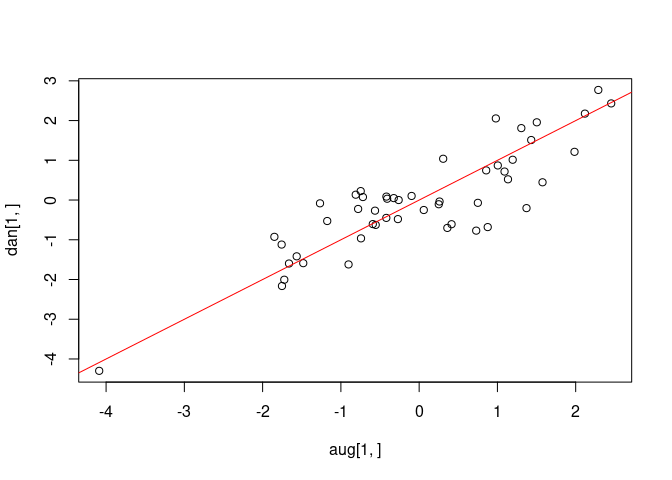
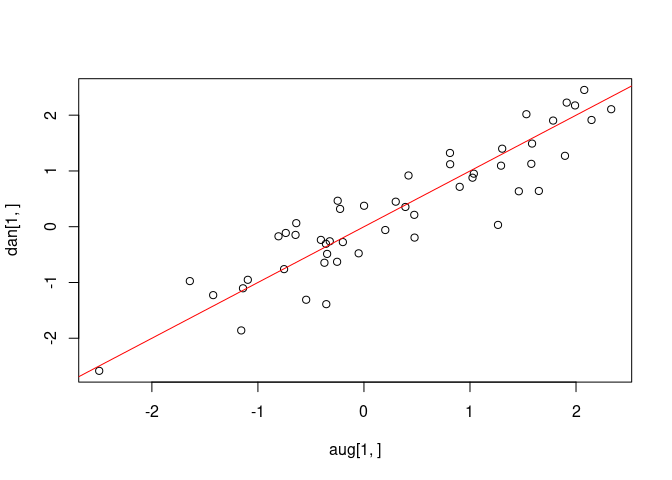
init Rproj

diff --git a/compare.md b/compare.md
@@ -51,11 +51,28 @@ system.time(plyr::r_ply(100,draw_conditional_posterior_R2_q(m,Y,U,X,sigma2,phi,b
 ```
 
     FALSE            Daniel Augustin
-    FALSE user.self   1.124   16.047
-    FALSE sys.self    0.024    0.012
-    FALSE elapsed     1.147   16.060
+    FALSE user.self   1.249   17.096
+    FALSE sys.self    0.024    0.000
+    FALSE elapsed     1.273   17.100
     FALSE user.child  0.000    0.000
     FALSE sys.child   0.000    0.000
+
+``` r
+#dist_conditional_posterior_R2_q(Y,U,X,sigma2,phi,beta,z,a,b,A,B)|>
+#  dplyr::rename(Augustin=prob)|>
+#  dplyr::full_join(dist_r2_q_cond_y_u_x_theta_z(sigma_epsilon,barvx,k,a,b,aa,bb,tbetabeta,s_z,r2_q_grid))|>
+#  dplyr::rename(Daniel=prob)|>ggplot(aes(x=Daniel,y=Augustin))+geom_points()
+
+q<-runif(m)
+R2<-r2<-runif(m)
+
+cbind(q=q,r2=r2,Daniel=loglikelihood_r2_q_cond_y_u_x_theta_z_a_b_aa_bb(r2,q,sigma_epsilon,barvx,k,a,b,aa,bb,tbetabeta,s_z),
+        Augustin=likelihood_conditional_posterior_R2_q(R2,q,Y,U,X,sigma2,phi,beta,z,a,b,A,B,correction=FALSE)|>log())|>as.data.frame()|>
+  dplyr::mutate()|>
+  ggplot(aes(x=Daniel,y=Augustin))+geom_point()
+```
+
+![](compare_files/figure-gfm/unnamed-chunk-3-3.png)<!-- -->
 
 ### II Test sampler z\_i
 
@@ -93,9 +110,9 @@ dan=sample_zi_cond_zj_y_u_x_phi_gamma(z,i=1,tilde_y,ttildeytildey,xx,q,tt,k,gamm
 mean(aug);mean(dan)
 ```
 
-    FALSE [1] 0.53
+    FALSE [1] 0.986
 
-    FALSE [1] 0.561
+    FALSE [1] 0.989
 
 ``` r
 cbind("Daniel"=
@@ -105,9 +122,9 @@ system.time(plyr::r_ply(100,sample_conditional_posterior_zi(Y,U,X,sigma2,phi,gam
 ```
 
     FALSE            Daniel Augustin
-    FALSE user.self   0.197    0.236
-    FALSE sys.self    0.016    0.011
-    FALSE elapsed     0.213    0.248
+    FALSE user.self   0.214    0.259
+    FALSE sys.self    0.004    0.012
+    FALSE elapsed     0.218    0.271
     FALSE user.child  0.000    0.000
     FALSE sys.child   0.000    0.000
 
@@ -163,9 +180,9 @@ system.time(plyr::r_ply(100,sample_conditional_posterior_z(Y,U,X,phi,R2,q,z))))
 ```
 
     FALSE            Daniel Augustin
-    FALSE user.self  12.403   16.816
-    FALSE sys.self    0.000    0.000
-    FALSE elapsed    12.403   16.815
+    FALSE user.self  11.850   16.296
+    FALSE sys.self    0.000    0.015
+    FALSE elapsed    11.855   16.339
     FALSE user.child  0.000    0.000
     FALSE sys.child   0.000    0.000
 
@@ -258,11 +275,11 @@ system.time(plyr::r_ply(100,sample_conditional_posterior_sigma2(Y,U,X,phi,R2, q,
 ```
 
     FALSE            Daniel Augustin
-    FALSE user.self    0.01    0.291
-    FALSE sys.self     0.00    0.000
-    FALSE elapsed      0.01    0.291
-    FALSE user.child   0.00    0.000
-    FALSE sys.child    0.00    0.000
+    FALSE user.self   0.011    0.336
+    FALSE sys.self    0.000    0.000
+    FALSE elapsed     0.011    0.337
+    FALSE user.child  0.000    0.000
+    FALSE sys.child   0.000    0.000
 
 ### V. test sampler beta
 
